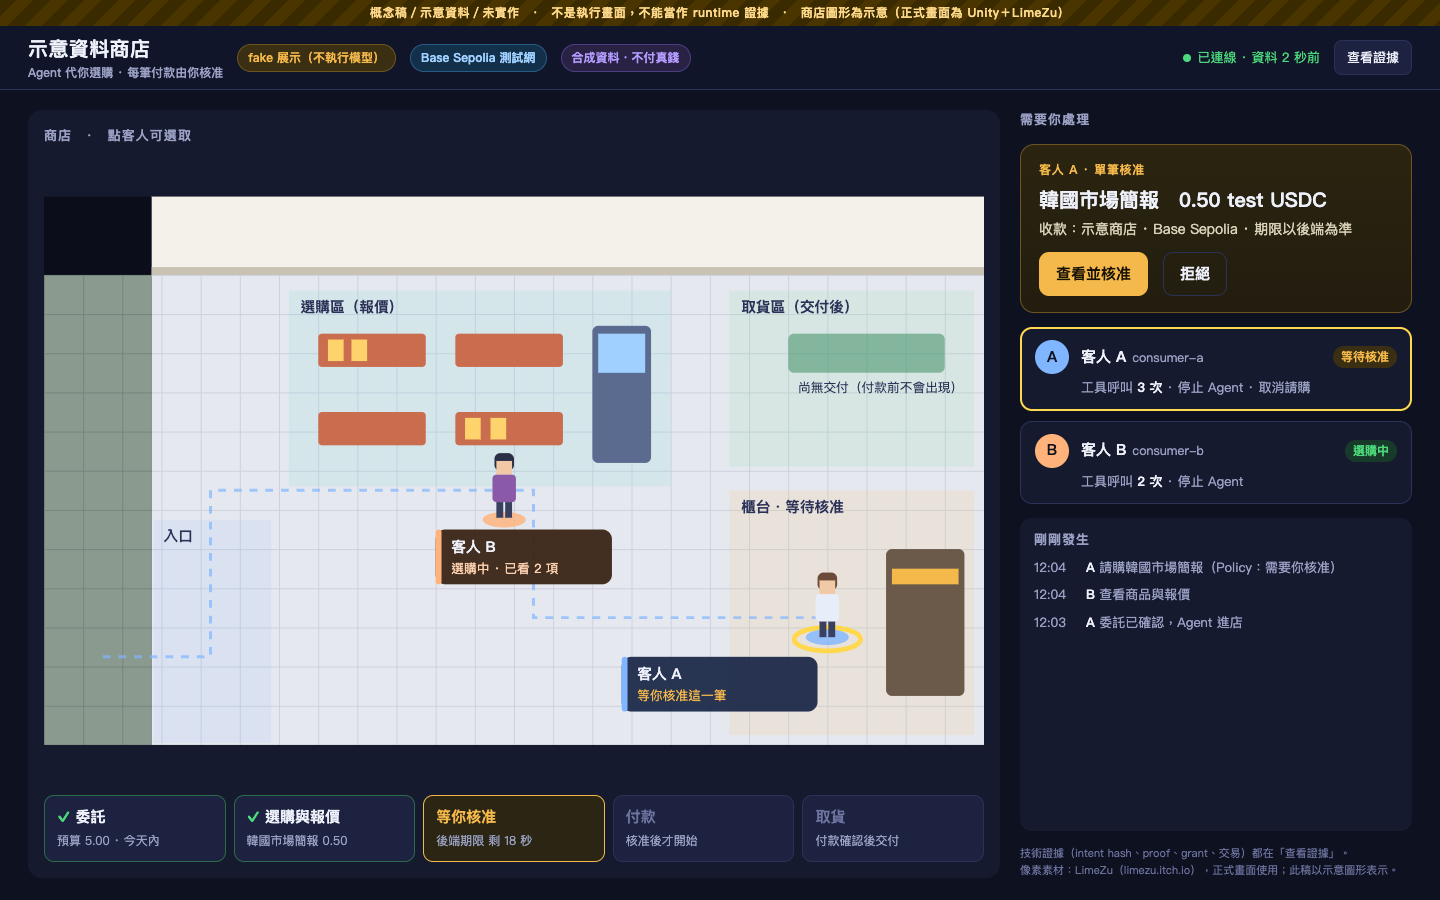
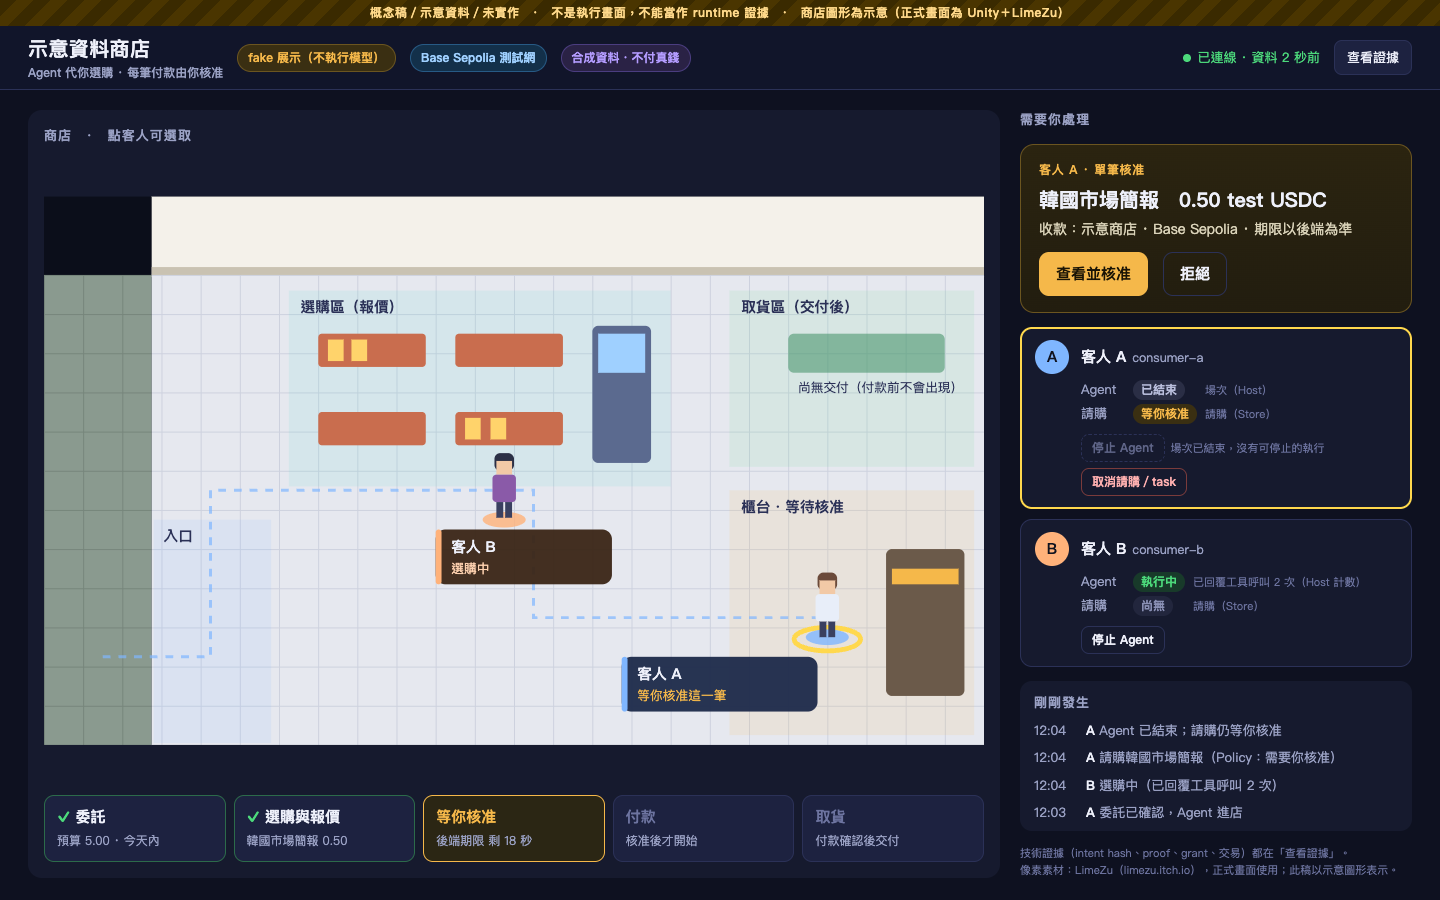
docs: commercial flow R3 Policy wiring and mockup semantics (Codex's limited re-review of e5d2b04): shared contract-neutral policy.Rules with M1 policy.Decide unchanged and a separate apa.pay.v1 entry (own validation, v1 intent_hash over PaymentBinding, payment_capability not_enabled); future target

diff --git a/docs/mockups/commerce/1-shop.html b/docs/mockups/commerce/1-shop.html
@@ -49,6 +49,17 @@
   .agent .st { font-size: 12px; padding: 2px 8px; border-radius: 999px; font-weight: 700; }
   .agent .line { grid-column: 2 / 4; font-size: 13px; color: var(--muted); }
   .agent .line b { color: var(--text); font-weight: 600; }
+  .rows { grid-column: 2 / 4; display: grid; grid-template-columns: 44px auto 1fr; gap: 4px 8px; align-items: center; font-size: 13px; margin-top: 2px; }
+  .rows .lbl { color: var(--muted); }
+  .rows .src { color: #6d74a0; font-size: 11px; }
+  .pill { padding: 1px 8px; border-radius: 999px; font-size: 12px; font-weight: 700; justify-self: start; }
+  .pill.run { background: #183a2a; color: var(--green); } .pill.end { background: #2a2e45; color: #b9bedc; }
+  .pill.ask { background: #3a2f12; color: var(--amber); } .pill.none { background: #22263d; color: #8a90b5; }
+  .acts { grid-column: 2 / 4; display: flex; gap: 6px; flex-wrap: wrap; margin-top: 6px; align-items: center; }
+  .sbtn { border: 1px solid var(--line); border-radius: 8px; padding: 4px 10px; font-size: 12px; font-weight: 700; color: var(--text); }
+  .sbtn.off { color: #5f6588; border-style: dashed; }
+  .sbtn.warn { border-color: #7a3b3b; color: #ffb0b0; }
+  .why { font-size: 11px; color: #6d74a0; }
   .feed { background: var(--panel); border-radius: 12px; padding: 12px 14px; overflow: hidden; }
   .feed ol { list-style: none; margin: 8px 0 0; padding: 0; display: grid; gap: 8px; font-size: 13px; }
   .feed li { display: grid; grid-template-columns: 52px 1fr; color: var(--muted); }
@@ -105,7 +116,7 @@
       <!-- customer B shopping -->
       <ellipse cx="470" cy="330" rx="22" ry="8" fill="#ffb27a" opacity=".8"/>
       <g transform="translate(454 262)"><rect x="6" y="0" width="20" height="18" rx="6" fill="#2b2f45"/><rect x="8" y="8" width="16" height="14" fill="#f2c9a6"/><rect x="4" y="22" width="24" height="28" rx="4" fill="#8a5aa8"/><rect x="8" y="50" width="7" height="16" fill="#3a4060"/><rect x="17" y="50" width="7" height="16" fill="#3a4060"/></g>
-      <g transform="translate(400 340)"><rect width="180" height="56" rx="10" fill="#3a2516" opacity=".95"/><rect width="6" height="56" rx="3" fill="#ffb27a"/><text x="16" y="23" fill="#eef0fa" font-size="15" font-weight="800" font-family="PingFang TC, sans-serif">客人 B</text><text x="16" y="44" fill="#ffd2b0" font-size="13" font-family="PingFang TC, sans-serif">選購中 · 已看 2 項</text></g>
+      <g transform="translate(400 340)"><rect width="180" height="56" rx="10" fill="#3a2516" opacity=".95"/><rect width="6" height="56" rx="3" fill="#ffb27a"/><text x="16" y="23" fill="#eef0fa" font-size="15" font-weight="800" font-family="PingFang TC, sans-serif">客人 B</text><text x="16" y="44" fill="#ffd2b0" font-size="13" font-family="PingFang TC, sans-serif">選購中</text></g>
     </svg>
     <div>
       <div class="progress" aria-label="客人 A 的進度">
@@ -126,16 +137,21 @@
       <span class="btn primary">查看並核准</span>　<span class="btn ghost">拒絕</span>
     </div>
     <div class="agents" aria-label="Agent">
-      <div class="agent sel"><div class="dot" style="background:var(--a)">A</div><div class="name">客人 A<small>consumer-a</small></div><span class="st" style="background:#3a2f12;color:var(--amber)">等待核准</span>
-        <div class="line">工具呼叫 <b>3 次</b> · 停止 Agent · 取消請購</div></div>
-      <div class="agent"><div class="dot" style="background:var(--b)">B</div><div class="name">客人 B<small>consumer-b</small></div><span class="st" style="background:#183a2a;color:var(--green)">選購中</span>
-        <div class="line">工具呼叫 <b>2 次</b> · 停止 Agent</div></div>
+      <div class="agent sel"><div class="dot" style="background:var(--a)">A</div><div class="name">客人 A<small>consumer-a</small></div><span></span>
+        <div class="rows"><span class="lbl">Agent</span><span class="pill end">已結束</span><span class="src">場次（Host）</span>
+          <span class="lbl">請購</span><span class="pill ask">等你核准</span><span class="src">請購（Store）</span></div>
+        <div class="acts"><span class="sbtn off">停止 Agent</span><span class="why">場次已結束，沒有可停止的執行</span><span class="sbtn warn">取消請購／task</span></div></div>
+      <div class="agent"><div class="dot" style="background:var(--b)">B</div><div class="name">客人 B<small>consumer-b</small></div><span></span>
+        <div class="rows"><span class="lbl">Agent</span><span class="pill run">執行中</span><span class="src">已回覆工具呼叫 2 次（Host 計數）</span>
+          <span class="lbl">請購</span><span class="pill none">尚無</span><span class="src">請購（Store）</span></div>
+        <div class="acts"><span class="sbtn">停止 Agent</span></div></div>
     </div>
     <div class="feed">
       <h2>剛剛發生</h2>
       <ol>
+        <li><span>12:04</span><span><b>A</b> Agent 已結束；請購仍等你核准</span></li>
         <li><span>12:04</span><span><b>A</b> 請購韓國市場簡報（Policy：需要你核准）</span></li>
-        <li><span>12:04</span><span><b>B</b> 查看商品與報價</span></li>
+        <li><span>12:04</span><span><b>B</b> 選購中（已回覆工具呼叫 2 次）</span></li>
         <li><span>12:03</span><span><b>A</b> 委託已確認，Agent 進店</span></li>
       </ol>
     </div>

diff --git a/docs/mockups/commerce/2-approval.html b/docs/mockups/commerce/2-approval.html
@@ -38,7 +38,7 @@
   .btn.deny { background: #fff; border-color: #d24a4a; color: #b03030; }
   .link { margin-left: auto; color: #4d5dbb; font-size: 14px; font-weight: 700; }
   .note { font-size: 12px; color: #7a7f99; padding: 0 28px 10px; }
-  .formal { position: absolute; top: 70px; right: 60px; width: 480px; bottom: 40px; background: var(--panel); border: 1px dashed #4b5490; border-radius: 18px; padding: 22px 24px; display: grid; grid-template-rows: auto auto 1fr auto; gap: 12px; }
+  .formal { position: absolute; top: 70px; right: 60px; width: 480px; bottom: 40px; background: var(--panel); border: 1px dashed #4b5490; border-radius: 18px; padding: 22px 24px; display: grid; grid-template-rows: auto auto auto 1fr auto; gap: 12px; }
   .formal .k { color: var(--violet); font-weight: 800; font-size: 13px; letter-spacing: .06em; }
   .formal h3 { margin: 0; font-size: 20px; }
   .formal ol { margin: 0; padding-left: 20px; display: grid; gap: 14px; align-content: start; color: #cfd3ee; font-size: 14px; }
@@ -47,6 +47,9 @@
   .v3 { display: grid; grid-template-columns: 92px 1fr; gap: 8px; align-items: center; background: var(--panel2); border-radius: 10px; padding: 9px 12px; font-size: 13px; }
   .v3 b { font-size: 13px; } .ok b { color: var(--green); } .bad b { color: var(--red); } .deg b { color: var(--amber); }
   .formal .foot { font-size: 12px; color: var(--muted); }
+  .ann-badge { display: inline-block; background: #ffe58a; color: #3a2c00; font-size: 12px; font-weight: 900; border-radius: 6px; padding: 3px 10px; letter-spacing: .04em; }
+  .ann { background: repeating-linear-gradient(135deg, #1a1d33 0 14px, #171a2e 14px 28px) !important; border: 2px dashed #ffe58a !important; }
+  .ann-rule { font-size: 13px; color: #ffe58a; font-weight: 700; }
 </style>
 </head>
 <body>
@@ -69,8 +72,9 @@
     <div class="actions"><span class="btn approve">核准此筆（模擬）</span><span class="btn deny">拒絕</span><span class="link">查看技術證據 ›</span></div>
   </div>
 </section>
-<aside class="formal" aria-label="正式核准（A2 之後）">
-  <div class="k">正式核准・A2 之後・未實作</div>
+<aside class="formal ann" aria-label="設計註解：正式核准的差異">
+  <div><span class="ann-badge">設計註解・非產品畫面</span></div>
+  <div class="k">正式核准（A2 之後・未實作）和左側模擬版的差異</div>
   <h3>同一張摘要，換成本人驗證</h3>
   <ol>
     <li><b>確認摘要</b>：商品、收款人、金額、資產、網路、期限（同左）。</li>
@@ -82,7 +86,7 @@
         <div class="v3 deg"><b>不可用</b><span>可發授權（amr = webauthn），畫面明寫「降級：語音不可用」</span></div>
       </div></li>
   </ol>
-  <div class="foot">標示：上方徽章改為「本人核准（WebAuthn）」，不再出現「模擬」。模擬按鈕在正式模式由後端拒絕，不只是隱藏。</div>
+  <div class="foot"><div class="ann-rule">實際畫面只顯示當前模式：fake 時只有左側的模擬核准；正式模式時只有正式核准，兩者不會同時出現，這一欄也不會上線。</div>正式模式的徽章改為「本人核准（WebAuthn）」，不再出現「模擬」；模擬核准在正式模式由後端拒絕，不只是隱藏按鈕。</div>
 </aside>
 </body>
 </html>

diff --git a/docs/mockups/commerce/3-receipt.html b/docs/mockups/commerce/3-receipt.html
@@ -48,6 +48,10 @@
   .s.fail { border-color: var(--red); } .s.fail b { color: var(--red); }
   .s.part { border-color: #9fd0ff; } .s.part b { color: #9fd0ff; }
   .foot { font-size: 11px; color: #6d74a0; }
+  .ann-badge { display: inline-block; background: #ffe58a; color: #3a2c00; font-size: 12px; font-weight: 900; border-radius: 6px; padding: 3px 10px; letter-spacing: .04em; }
+  .ann { background: repeating-linear-gradient(135deg, #1a1d33 0 14px, #171a2e 14px 28px) !important; border: 2px dashed #ffe58a !important; }
+  .ann-rule { font-size: 13px; color: #ffe58a; font-weight: 700; }
+  .states.ann { border-radius: 14px; padding: 14px; }
 </style>
 </head>
 <body>
@@ -78,8 +82,10 @@
     </div>
     <div class="evid"><span><b>查看技術證據</b>　intent hash · 核准會話 · grant · ZK proof · 兩筆交易 receipt · 交付 hash · 時間軸</span><span>展開 ›</span></div>
   </section>
-  <aside class="states" aria-label="其他狀態的呈現">
-    <h2>不是成功時怎麼呈現</h2>
+  <aside class="states ann" aria-label="設計註解：其他結果的呈現規則">
+    <div><span class="ann-badge">設計註解・非產品畫面</span></div>
+    <h2>不是成功時，同一個位置怎麼呈現</h2>
+    <div class="ann-rule">實際畫面只顯示當前結果的一種，取代左側的「完成」；這一欄不會上線。</div>
     <div class="s wait"><b>確認中</b><span>已送出，等待鏈上確認。不會自動重付；可離開頁面，回來會顯示結果。</span></div>
     <div class="s unk"><b>結果未知</b><span>付款已送出，但還不能確認是否成功（例如服務逾時）。需要人工對帳；不顯示已付款，也不顯示失敗。</span></div>
     <div class="s fail"><b>付款未完成</b><span>授權已過期且鏈上沒有結算：沒有扣款。若預算已預留，顯示「已預留、未付款，待處理」。</span></div>

diff --git a/docs/commercial-demo-roadmap.md b/docs/commercial-demo-roadmap.md
@@ -16,7 +16,7 @@
 - **M-B 收斂**：相對 §6.8 舊版 M-B（含 Admin 總覽），現在的 M-B 只做多場 Host 接線（同時執行上限為部署設定，預設 2）、資料隔離、Unity 雙角色、最小主持人選取，以及時間紀錄與唯讀重疊判定工具，先用 fake 驗證；Admin 活動／請購營運總覽後接，再隨付款整合加入結算金額與鏈上證據。
 - **M-C**：兩位真實 Agent 的受控展示，以 M-B 已 review 的工具判定工作重疊與停止隔離；每次真實執行另行核准。10/12 依 Aaron 核准執行兩次（Aaron 操作）：第一次交錯、停止隔離未示範；第二次以「一起開始」執行兩組，第一組交錯、第二組停止隔離成立（設計文件第 15、15.1 節；Claude Code 唯讀核對，待 Codex 核對）。主持人頁未顯示每場的 `tool_calls` 次數，是對照設計的缺口。
 - **UX1 商業展示主畫面與操作重整**（10/12 Aaron 同意按步驟推進商業展示版；暫稱，不占付款或 Admin 任務編號）：已在分支 `commercial-ux1` 實作，只用 fake 驗證；**10/12 完成**：Aaron 依三段 fake 彩排手動驗證，原話「以上過程均以手動驗證過，行為模式合格」，結合 Codex 技術複核（R1、R2 補正）；不代表真實 Agent、付款或整體商業展示版；手機名稱牌偏小、觸控未驗證等限制保留（[commercial-ux1.md](commercial-ux1.md)）。補上主持人頁每場工具呼叫數的缺口。下一片才進入委託與本人核准。
-- **核准到交易完成的最小商業流程**（10/12）：Aaron 已核准**方向**（委託 → 請購 → 本人核准 → grant → 付款 → 交付 → 查證）。本輪只交設計：[commercial-transaction-flow.md](commercial-transaction-flow.md)（購物流程表、最小狀態與介面、依賴、切片順序、首片 P1-a「委託與單筆核准入口」派工草案、決策表）。Codex 設計 review 提出 R1～R4（商業視覺稿、核准身分與權限、新契約接線與遷移、grant 驗收分層），**設計補正完成（含三張概念稿），待 Codex 限定複核與 Aaron 視覺方向確認；P1-a 未開工**。阻擋首片的決定：付款帳戶 ADR（仍 Proposed，推薦保留 EOA＋EIP-3009）、首片以明標的模擬核准跑通且不啟用付款、正式契約 `apa.pay.v1` 與 Store 遷移範圍。後續實作（P1-a 起）未核准；金鑰、faucet、部署、簽署、testnet 交易等外部執行另行申請，不由方向核准自動授權。
+- **核准到交易完成的最小商業流程**（10/12）：Aaron 已核准**方向**（委託 → 請購 → 本人核准 → grant → 付款 → 交付 → 查證）。本輪只交設計：[commercial-transaction-flow.md](commercial-transaction-flow.md)（購物流程表、最小狀態與介面、依賴、切片順序、首片 P1-a「委託與單筆核准入口」派工草案、決策表）。Codex 設計 review 提出 R1～R4（商業視覺稿、核准身分與權限、新契約接線與遷移、grant 驗收分層），**R3 Policy 接線與概念稿語意補正完成，待 Codex 限定複核；Aaron 的視覺方向（版面與場景美術分開確認）及三項實作決策待確認；P1-a 未開工**。阻擋首片的決定：付款帳戶 ADR（仍 Proposed，推薦保留 EOA＋EIP-3009）、首片以明標的模擬核准跑通且不啟用付款、正式契約 `apa.pay.v1` 與 Store 遷移範圍。後續實作（P1-a 起）未核准；金鑰、faucet、部署、簽署、testnet 交易等外部執行另行申請，不由方向核准自動授權。
 - 付款、20 個付款帳號、ZK 不是開始 M-B 的前置條件，也不因此刪除最終商業展示的技術要求。
 
 ## 0 摘要（10/7 路線提案當時）
